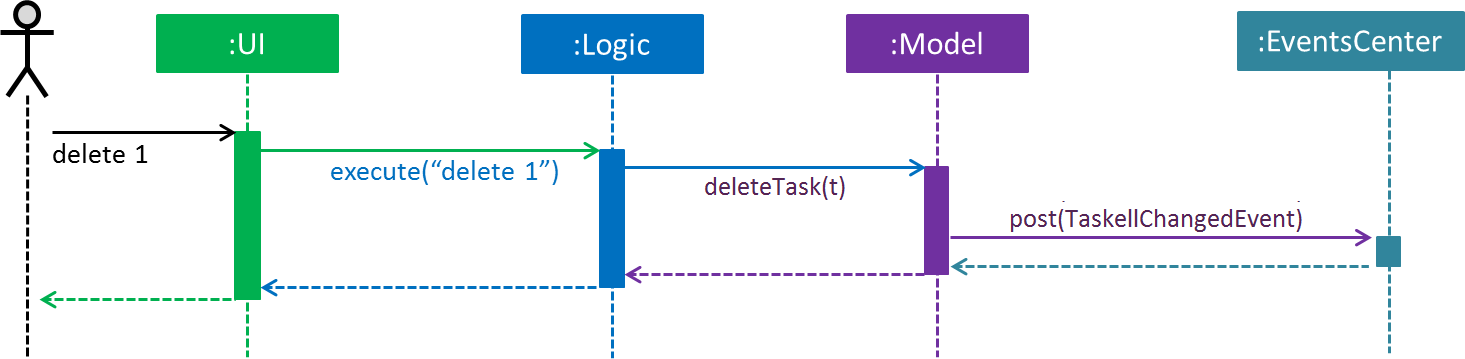
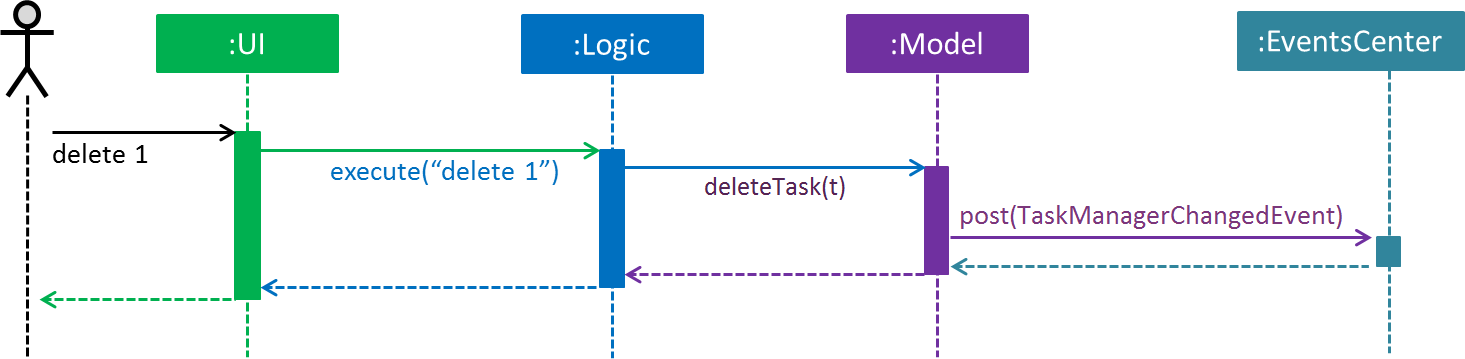
Edit Pictures

Changed region(s): [[0.6451, 0.5822, 0.9215, 0.6435]]

diff --git a/docs/DeveloperGuide.md b/docs/DeveloperGuide.md
@@ -76,14 +76,14 @@ interface and exposes its functionality using the `LogicManager.java` class.<br>
 The _Sequence Diagram_ below shows how the components interact for the scenario where the user issues the
 command `delete 3`.
 
-<img src="images\SDforDeletePerson.png" width="800">
+<img src="images\SDforDeleteTask.png" width="800">
 
->Note how the `Model` simply raises a `AddressBookChangedEvent` when the Address Book data are changed,
+>Note how the `Model` simply raises a `TaskManagerChangedEvent` when the Task Manager data are changed,
  instead of asking the `Storage` to save the updates to the hard disk.
 
 The diagram below shows how the `EventsCenter` reacts to that event, which eventually results in the updates
 being saved to the hard disk and the status bar of the UI being updated to reflect the 'Last Updated' time. <br>
-<img src="images\SDforDeletePersonEventHandling.png" width="800">
+<img src="images\SDforDeleteTaskEventHandling.png" width="800">
 
 > Note how the event is propagated through the `EventsCenter` to the `Storage` and `UI` without `Model` having
   to be coupled to either of them. This is an example of how this Event Driven approach helps us reduce direct 
@@ -124,7 +124,7 @@ The `UI` component,
 
 Given below is the Sequence Diagram for interactions within the `Logic` component for the `execute("delete 1")`
  API call.<br>
-<img src="images/DeletePersonSdForLogic.png" width="800"><br>
+<img src="images/DeleteTaskSdForLogic.png" width="800"><br>
 
 ### Model component
 
@@ -134,8 +134,8 @@ Given below is the Sequence Diagram for interactions within the `Logic` componen
 
 The `Model`,
 * stores a `UserPref` object that represents the user's preferences.
-* stores the Address Book data.
-* exposes a `UnmodifiableObservableList<ReadOnlyPerson>` that can be 'observed' e.g. the UI can be bound to this list
+* stores the Task Manager data.
+* exposes a `UnmodifiableObservableList<ReadOnlyTask>` that can be 'observed' e.g. the UI can be bound to this list
   so that the UI automatically updates when the data in the list change.
 * does not depend on any of the other three components.
 
@@ -176,7 +176,7 @@ and logging destinations.
 
 ### Configuration
 
-Certain properties of the application can be controlled (e.g App name, logging level) through the configuration file 
+Certain properties of the application can be controlled (e.g Application name, logging level) through the configuration file 
 (default: `config.json`):
 
 
@@ -198,7 +198,7 @@ Tests can be found in the `./src/test/java` folder.
 
 We have two types of tests:
 
-1. **GUI Tests** - These are _System Tests_ that test the entire App by simulating user actions on the GUI. 
+1. **GUI Tests** - These are _System Tests_ that test the entire Application by simulating user actions on the GUI. 
    These are in the `guitests` package.
   
 2. **Non-GUI Tests** - These are tests not involving the GUI. They include,
